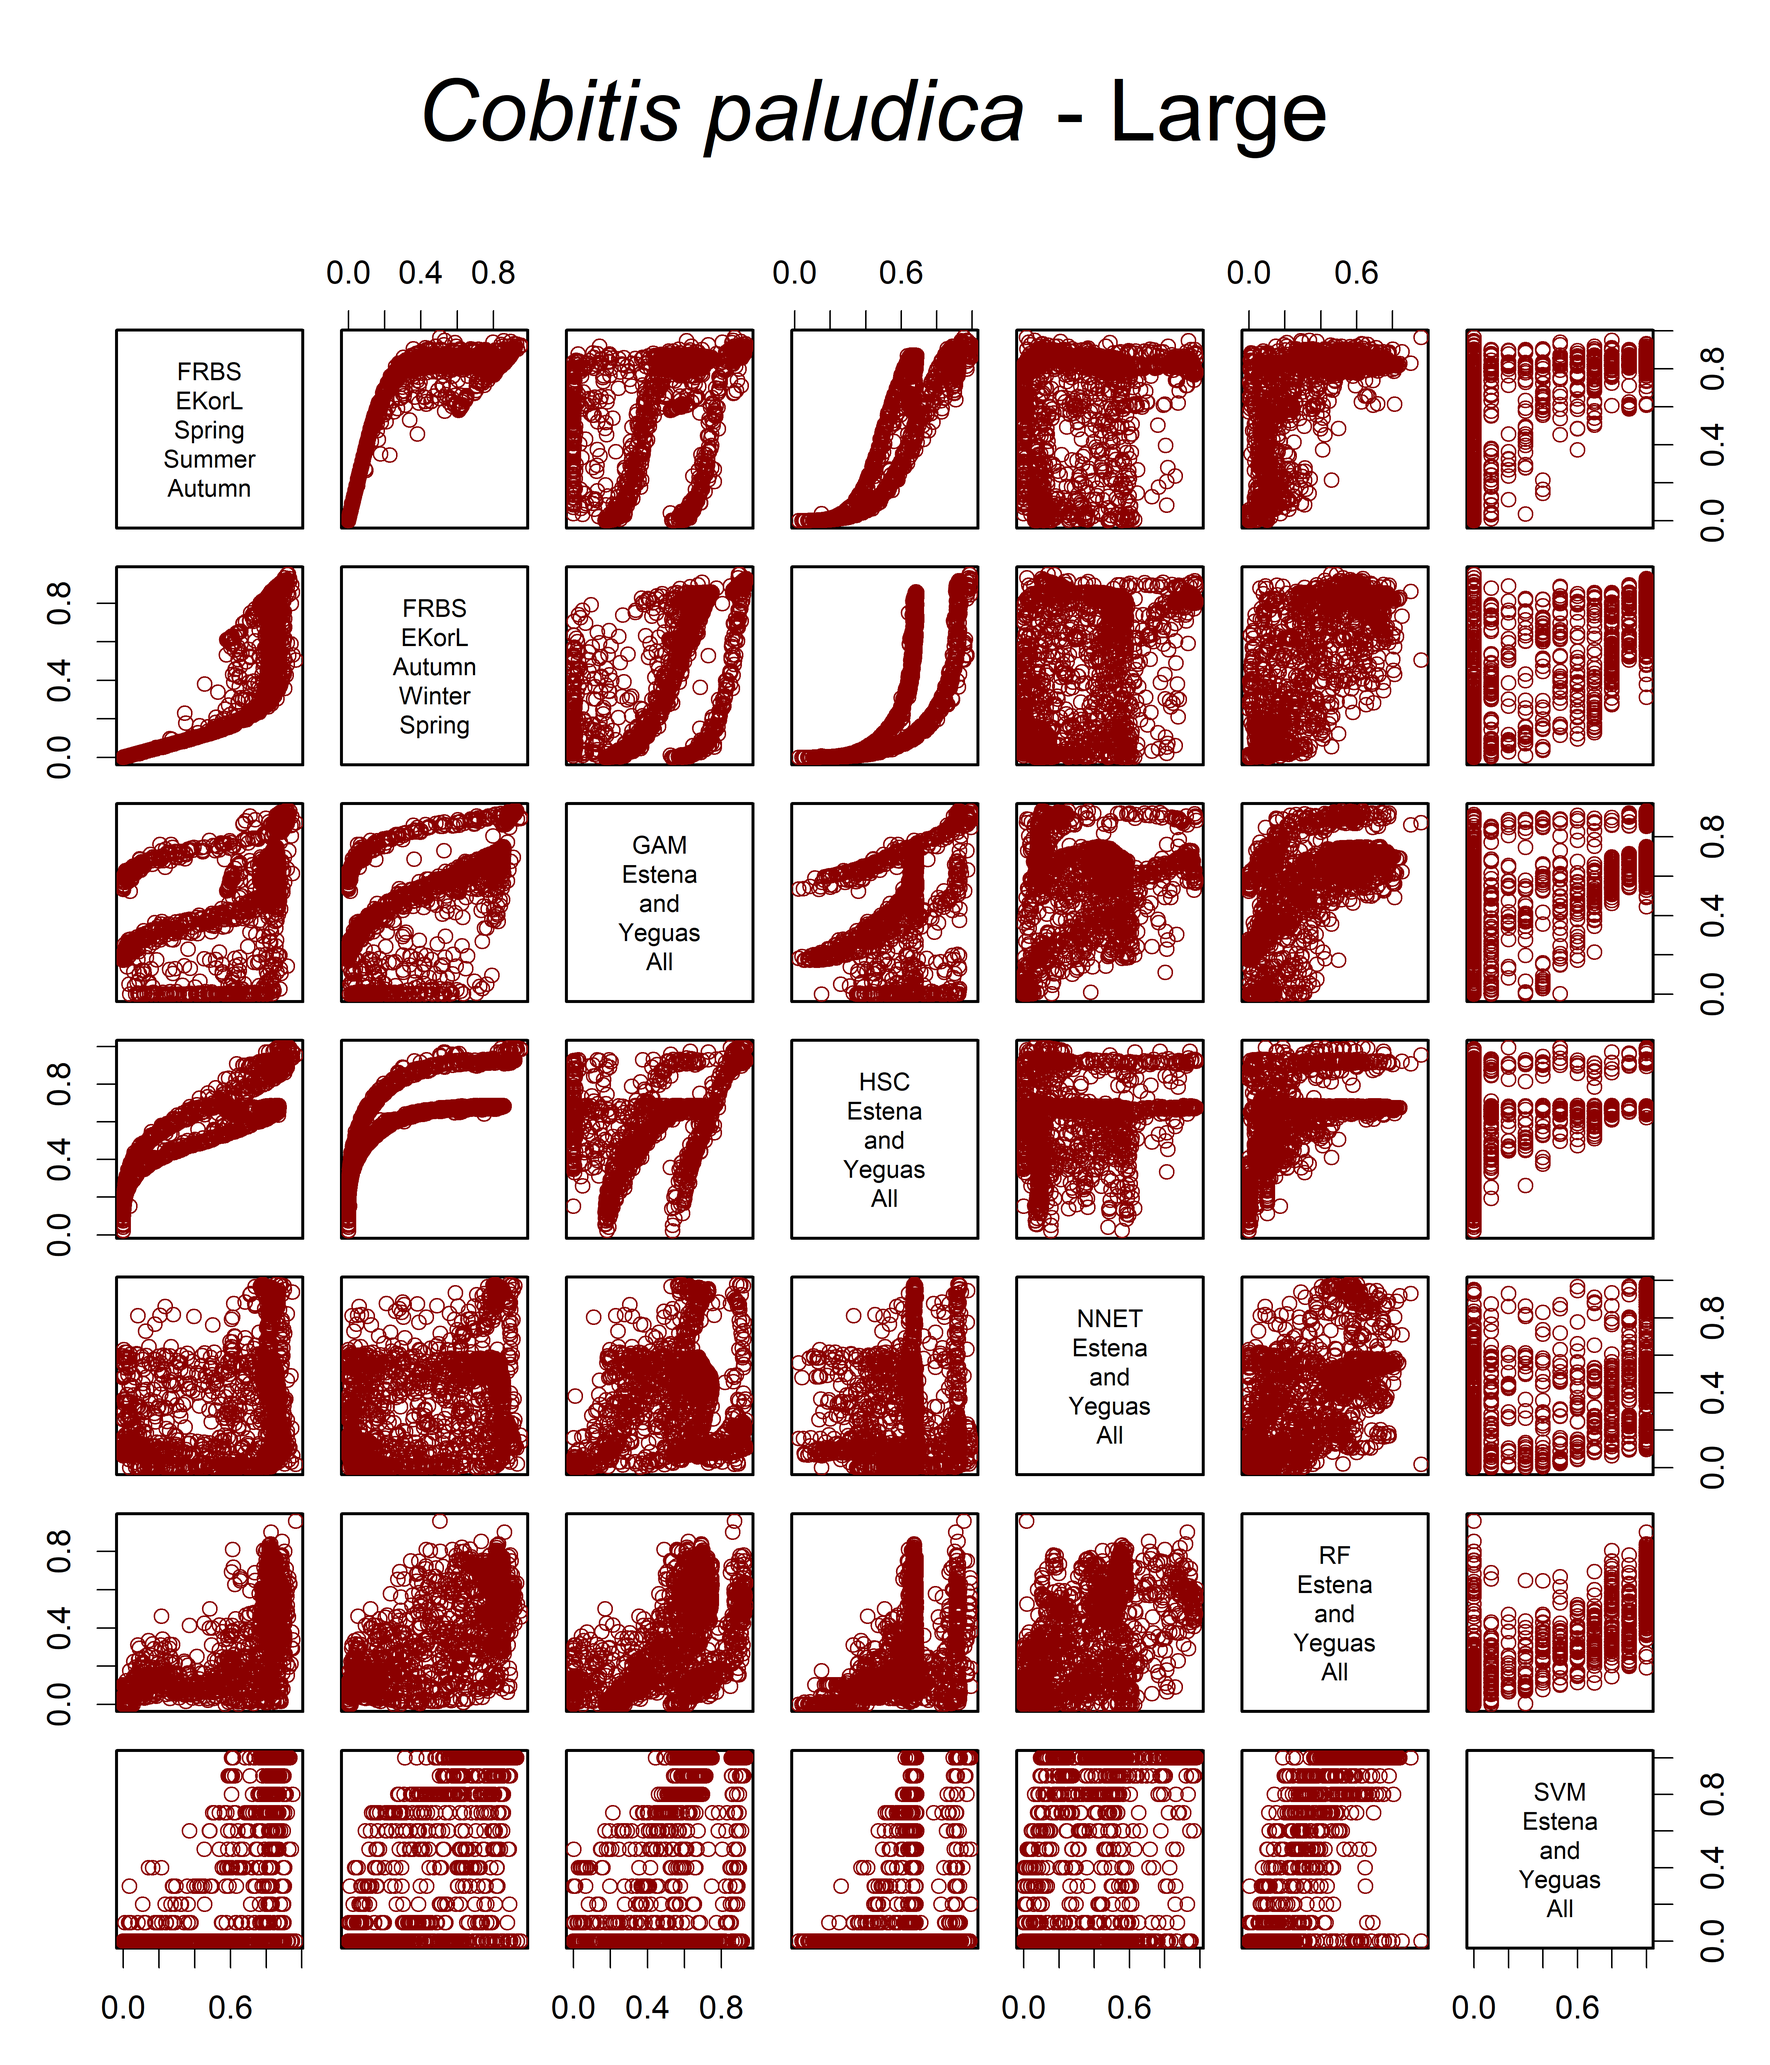
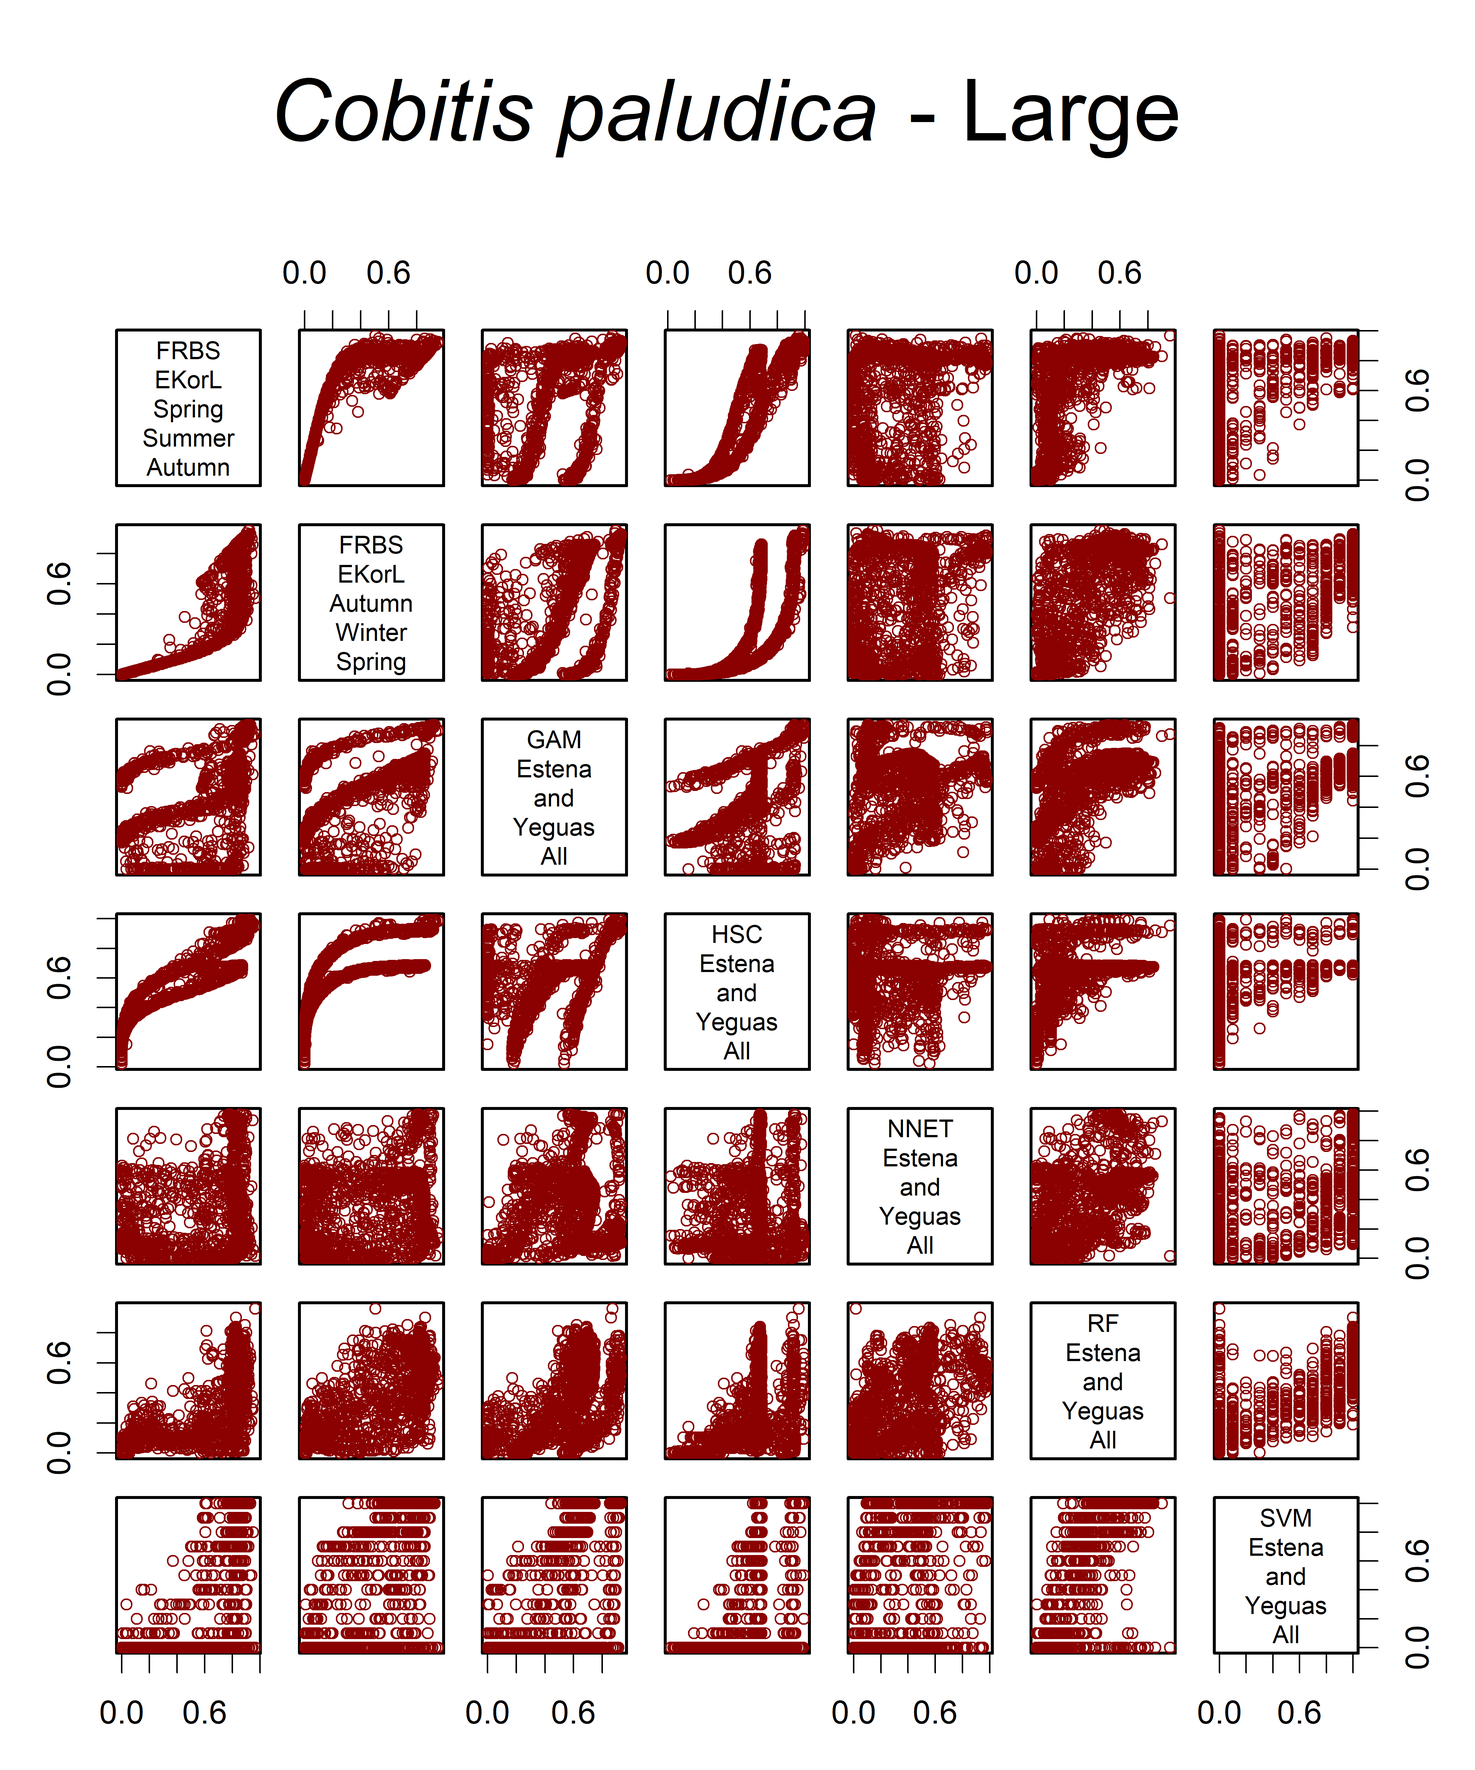
Readme

Changed region(s): [[0.0312, 0.125, 0.9688, 1.0], [0.1875, 0.0312, 0.5938, 0.0938], [0.625, 0.0312, 0.8125, 0.0938]]

diff --git a/README.md b/README.md
@@ -1026,7 +1026,7 @@ summary(Predictions)
 
 ``` r
 
-pairs(Predictions, col = "red4", oma = c(2.5, 2.5, 8, 2.5), cex.labels = 0.75, lwd = 0.5)
+pairs(Predictions, col = "red4", oma = c(2.5, 2.5, 8, 2.5), cex.labels = 0.75, lwd = 0.5, cex = 0.75)
 
 title(substitute(expr = paste(italic(Species), Size, sep =" "), env = list(Species = Species, Size = Size)), outer = T, line = -2, adj = 0.5, cex.main = 1.75)
 ```
@@ -1111,7 +1111,7 @@ pool with the highest suitability (i.e., 1). These models are base
 
 <br/>
 
-<img src="man/figures/README-compareplot figure-1.png" width="100%" height="110%" />
+<img src="man/figures/README-compareplot figure-1.png" width="100%" height="100%" />
 
 **Figure 6** - Maps depicting the predicted microhabitat suitability for
 *Cobitis paludica* small in a reach of the Serpis River (Jucar River
